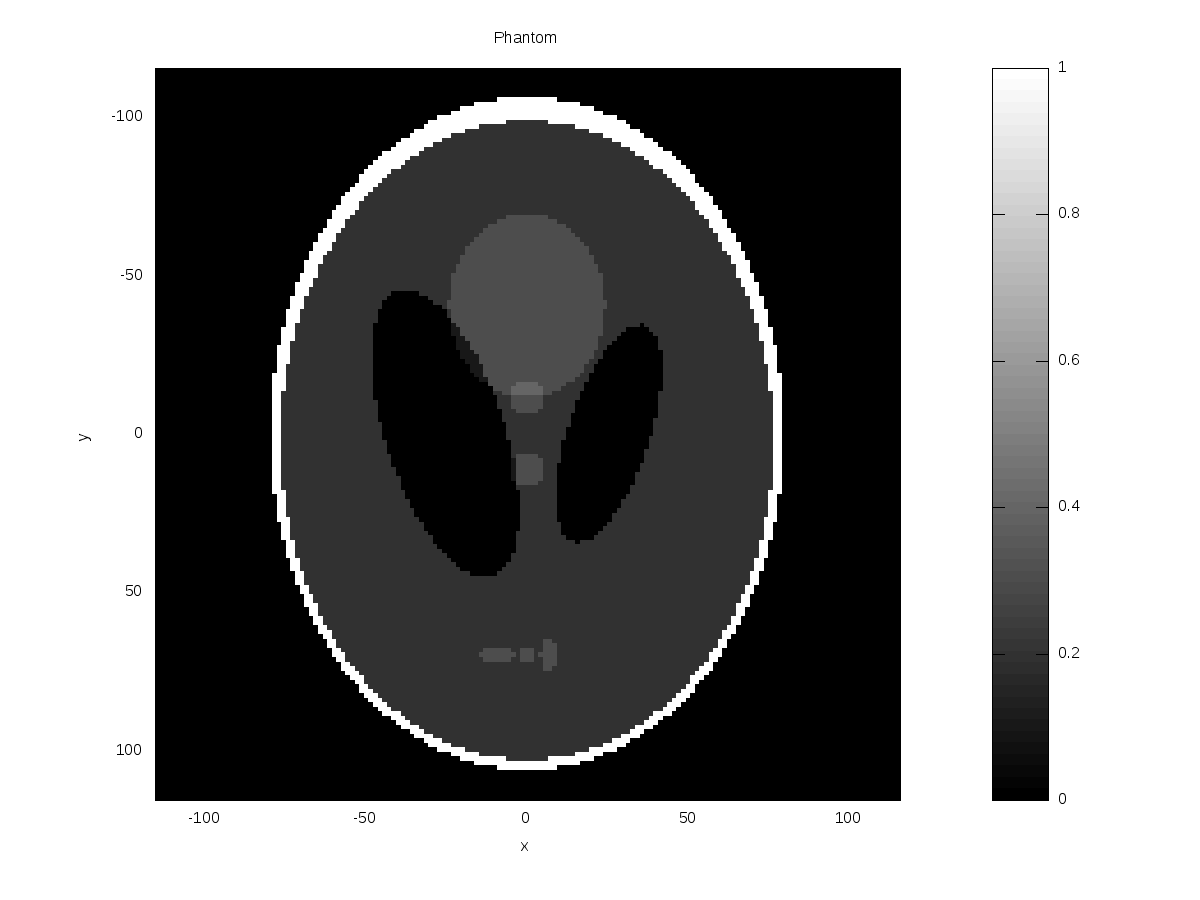
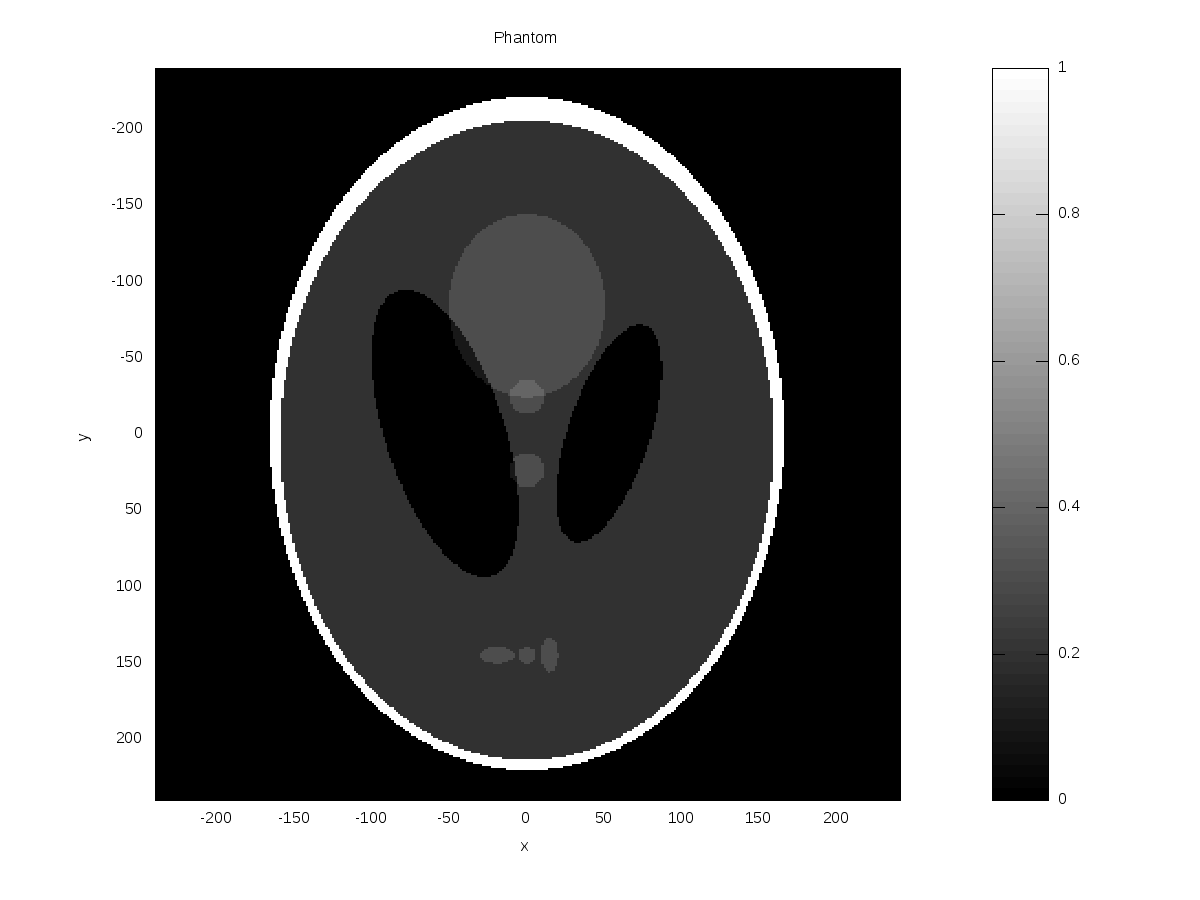
Add oversampling feature to reduce artefacts due to oversampling

diff --git a/trunk/main.m b/trunk/main.m
@@ -16,8 +16,9 @@
 % @param N_theta Number of slices in Radon scan from 0deg to 180deg (excluding 180deg)
 % @param SNR Signal to Noise Ratio
 % @param interp_m method of interpolation. Can be 'nearest','linear' or 'cubic'
+% @param oversampling_ratio oversampling ratio. Increase the Nyquist frequency to reduce aliasing. =1, none; >1 oversampling.
 % @param DEBUG mode. If set to 1, many more figures are printed out for debugging process.
-function main(shape,N_image,N_theta,SNR,interp_m,DEBUG)
+function main(shape,N_image,N_theta,SNR,interp_m,oversampling_ratio,DEBUG)
 %%%%%%%%%%%%%%%%%%%%%%%%%%%%%%%%%%%%%%%%%%%%%%%%%%%%%%%%%%%%%%%%
 %% MAKE A PHANTOM AND APPLY RADON TRANSFROMATION
 
@@ -52,10 +53,16 @@ save_image(THETA, omega_s, abs(Fourier_Radon),...
 
 %%%%%%%%%%%%%%%%%%%%%%%%%%%%%%%%%%%%%%%%%%%%%%%%%%%%%%%%%%%%%%%%%%%%%
 %% INTERPOLATION: Map slices from polar coordinates to rectangular coordinates
-[Fourier_2D omega_xy] = polar_to_rect(THETA,omega_s,Fourier_Radon,N_image,interp_m,DEBUG);
+[Fourier_2D omega_xy] = polar_to_rect(THETA,omega_s,Fourier_Radon,N_image*oversampling_ratio,interp_m,DEBUG);
 
 %%%%%%%%%%%%%%%%%%%%%%%%%%%%%%%%%%%%%%%%%%%%%%%%%%%%%%%%%%%%%%%%%%%%%
 %% INVERSE 2D FOURIER TRANSFORM
-[Final_image axis_xy] = inverse_Fourier_2D(Fourier_2D,omega_xy,DEBUG);
-save_image(axis_xy,axis_xy,real(Final_image),...
+[Reconstructed_image axis_xy_2] = inverse_Fourier_2D(Fourier_2D,omega_xy,DEBUG);
+
+% Crop image
+xy_min = axis_xy(1);
+xy_max = axis_xy(length(axis_xy));
+[Crop_image new_axis_xy] = image_crop(Reconstructed_image,axis_xy_2,xy_min,xy_max,DEBUG);
+
+save_image(new_axis_xy,new_axis_xy,real(Crop_image),...
 	'Reconstructed Image','x','y');

diff --git a/trunk/start_simulation.m b/trunk/start_simulation.m
@@ -8,7 +8,7 @@
 
 %! Debug the program.
 % When DEBUG=1, extra figures will be saved in current directory which can be used for debugging process.
-DEBUG = 1;
+DEBUG = 0;
 
 %%%%%%%%%%%%%%%%%%%%%%%%%%%%%%%%%%%%%%%%%%%%%%%%%%%%%%%%%%%%%%%%%
 %% Parameters
@@ -19,15 +19,21 @@ shape='Modified Shepp-Logan'
 %! Size of the phantom.
 % This specifies the number of rows and columns in the matrix of Phantom.
 % N_image is suggested to be an odd number.
-N_image = 231
+N_image = 480
 
 %! Number of slices in Radon scan from 0deg to 180deg (excluding 180deg)
-N_theta = 180
+N_theta = 180*2
 
 %! Signal to noise ratio.
 SNR = 0
 
 %! Interpolation method
-interp_m = 'nearest'
+interp_m = 'linear'
 
-main(shape,N_image,N_theta,SNR,interp_m,DEBUG);
+%! Oversampling_ratio oversampling ratio. Increase the Nyquist frequency to reduce aliasing. =1, none; >1 oversampling.
+oversampling_ratio=2
+
+%! Zeropadding ratio. Avoid overlapping of artefacts to the phantom after applying inverse Fourier transform. 1 ~ mininal; >1 ~ zeropadding.
+%zeropadding_ratio=1;
+
+main(shape,N_image,N_theta,SNR,interp_m,oversampling_ratio,DEBUG);

diff --git a/trunk/image_crop.m b/trunk/image_crop.m
@@ -1,0 +1,35 @@
+%%
+%! @file
+% Crop the image to specified range.
+%
+
+%%
+%! @param image Image to be cropped
+% @param axis_xy original range of axes in the image
+% @param xy_min top left hand corner of the crop box
+% @param xy_max bottom right hand corner of the crop box
+% @param DEBUG Debug mode. If DEBUG=1, save the preview image.
+% @retval new_image cropped image
+% @retval new_axis_xy new axes range
+function [new_image new_axis_xy] = image_crop(image,axis_xy,xy_min,xy_max,DEBUG)
+
+% Make axis_xy a row vector
+if( size(axis_xy,2) ==1)
+axis_xy = axis_xy';
+end
+
+% define crop box
+[row_idx col_idx val] = find( axis_xy>=xy_min & axis_xy<=xy_max );
+idx_begin = col_idx(1);
+idx_end = col_idx(length(row_idx));
+
+new_image = image(idx_begin:idx_end,idx_begin:idx_end);
+new_axis_xy = axis_xy(idx_begin:idx_end);
+
+if(DEBUG)
+figure
+imagesc(axis_xy,axis_xy,real(image)),colormap(gray),colorbar
+xlim([xy_min xy_max]),ylim([xy_min xy_max])
+title('Cropbox preview'),xlabel('x'),ylabel('y')
+print -dpng 'cropbox_preview.png'
+end

diff --git a/trunk/polar_to_rect.m b/trunk/polar_to_rect.m
@@ -45,9 +45,9 @@ omega_y=omega_x;
 [OMEGA_X OMEGA_Y] = meshgrid(omega_x, omega_y);
 [THETA_I OMEGA_SI] = cart2pol(OMEGA_X,OMEGA_Y);
 
-% map from [-pi,pi] to [0, 180]
+% map from {theta,omega_s : [-pi,pi],[0,inf]} to {theta,omega_s : [0, 180],[-inf,inf]}
 OMEGA_SI = OMEGA_SI .* sign(THETA_I);
-THETA_I = abs(THETA_I) *180 / pi;
+THETA_I = abs(THETA_I) * (180/pi);
 
 %% Apply interpolation
 % disable extrapolation: everything outside the defined space is set to zero.
